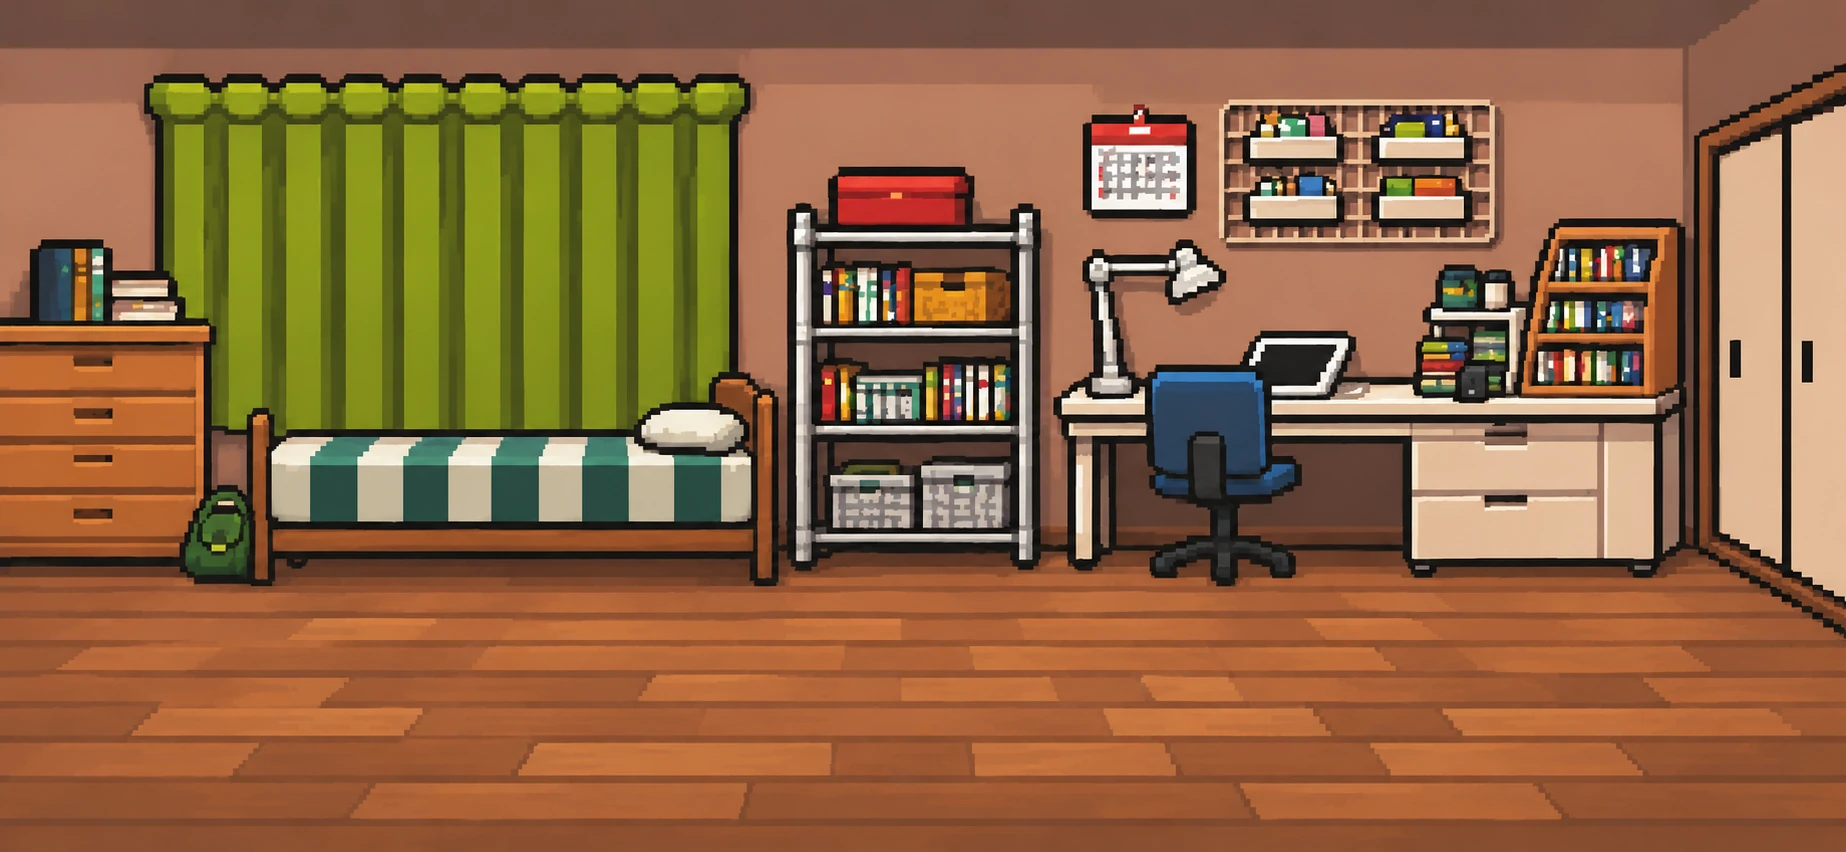
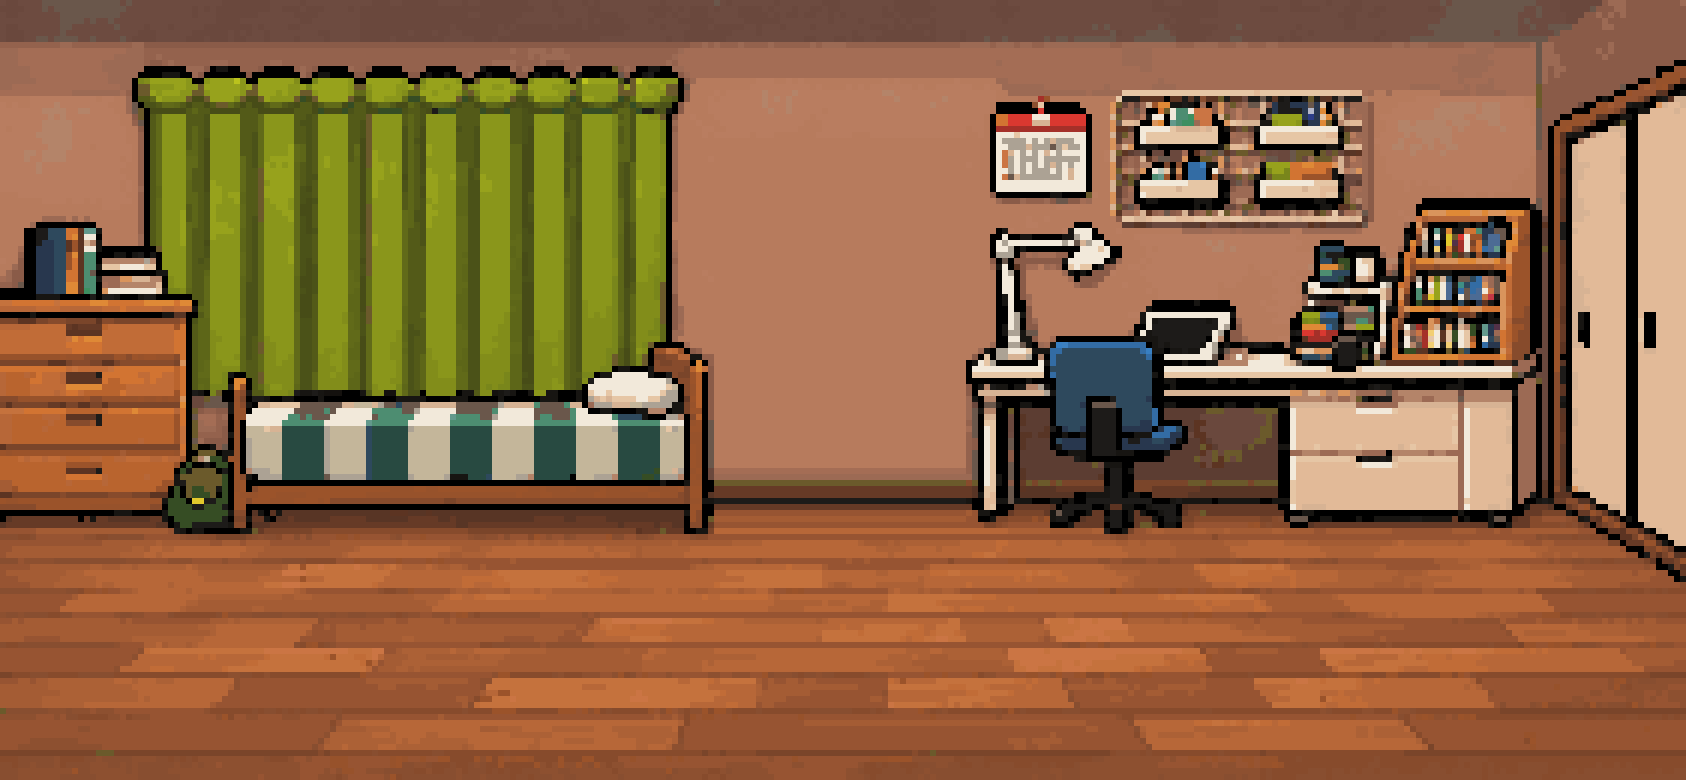
C.495 이치고 방 배경 = 도트판 (선반 없음, 281×130칸 · 73색)
Claude-Session: https://claude.ai/code/session_01KpWyHvBBn8A5gZku3YJCXb

diff --git a/src/version.ts b/src/version.ts
@@ -3,7 +3,7 @@
 import { BALANCE_VERSION } from './config/balance';
 
 /** 패치 이름 = docs/dev-log.md 의 최신 소절 번호. 패치마다 갱신한다 (CLAUDE.md) */
-export const PATCH_LABEL = 'C.494';
+export const PATCH_LABEL = 'C.495';
 /** 단계 번호 = 기획서(docs/GDD.md) 13장 로드맵 표의 단계. PATCH_LABEL 과 같이 패치마다 갱신한다 */
 export const STAGE_LABEL = 'S-23';
 

diff --git a/docs/dev-log.md b/docs/dev-log.md
@@ -4275,3 +4275,8 @@ C.0 ~ C.120 은 `docs/dev-log-archive.md` 로 옮겼다(C.0~C.59 2026-10-20, C.6
 - `src/data/rooms/transcendent-ichigo.json` 에 `layout` 새로(그 전엔 비어 종족 방 자리): 책장 (9.9, 91.2) ×0.91 · 붕옥 (34.1, 91.2) ×0.77 · 수련장 (25, 74.6) ×1.03 · 가방 (72.1, 72.9) ×0.86 · 월드맵 문 (88.9, 91.2) ×1. 크기는 안 바꿔 종족 방 값 그대로 적음. 내보낸 y 91.4 는 바닥 아래 끝(91.2)을 넘어 게임이 91.2 로 끌어 놓던 값이라 91.2 로(보이는 자리 같음). 안 적은 칸(rank)은 종족 방 그대로.
 - 테스트: c432(이치고의 방 layout = 종족 방 + 방 목록 값). 캡처 `docs/captures/c494/1-room-transcendent-ichigo.png`(도구 = 실제 roomView, 1배, `scripts/c494-proof.cjs`). 그림 상자 겹침(수련장×붕옥 등)은 투명 여백, 눈으로 가림 없음.
 - 도구 안내(사용자): 브라우저 편집본에 옛 장면 값이 남아 있으니 다음 내보내기 전 [전부 초기화] 권함(새 방·이치고의 방만 다시 맞춤).
+
+## C.495 — 이치고 방 배경 = 도트판 (선반 없음, 281×130칸 · 73색) (S-23)
+- 사용자 2026-11-19 "이치고 방 배경 보면 가운데 책꽃이 … 캐릭이랑 겹쳐서 보기 어려우니까 뒤에 그냥 방 벽이랑 같은 색으로 날린 그림으로" → "그 이치고 방이나 도트로 다시찍어라" → "73색짜지로 방배경 교체".
+- `public/art/scene-room-ichigo.webp`: 원본(`docs/design/user-art/transcendent-rooms/ichigo-room.png` 1846×852)에서 가운데 철제 선반과 그 그림자를 벽 색으로 지우고(`ichigo-room-noshelf.png`), 281×130칸으로 다시 찍어 73색으로 줄인 판(`ichigo-room-dot-281x130.png`)을 6배(1686×780)로 키워 넣음 — 화면에서 한 칸 약 3px.
+- 방 물건 자리·바닥 범위(`src/data/rooms/transcendent-ichigo.json`)는 그대로(그림 비율 거의 같음: 2.167 → 2.162). 수치·세이브·기획 변경 없음.
